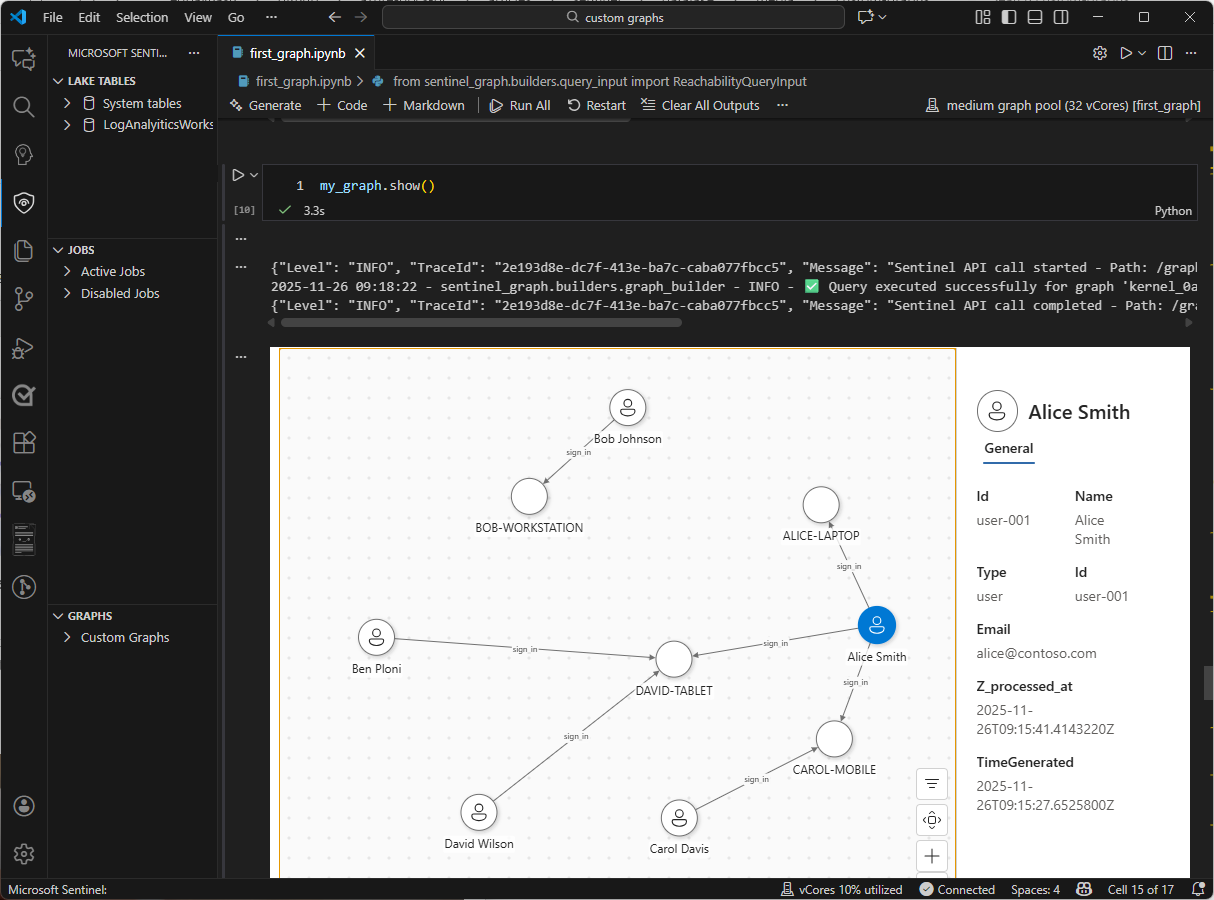
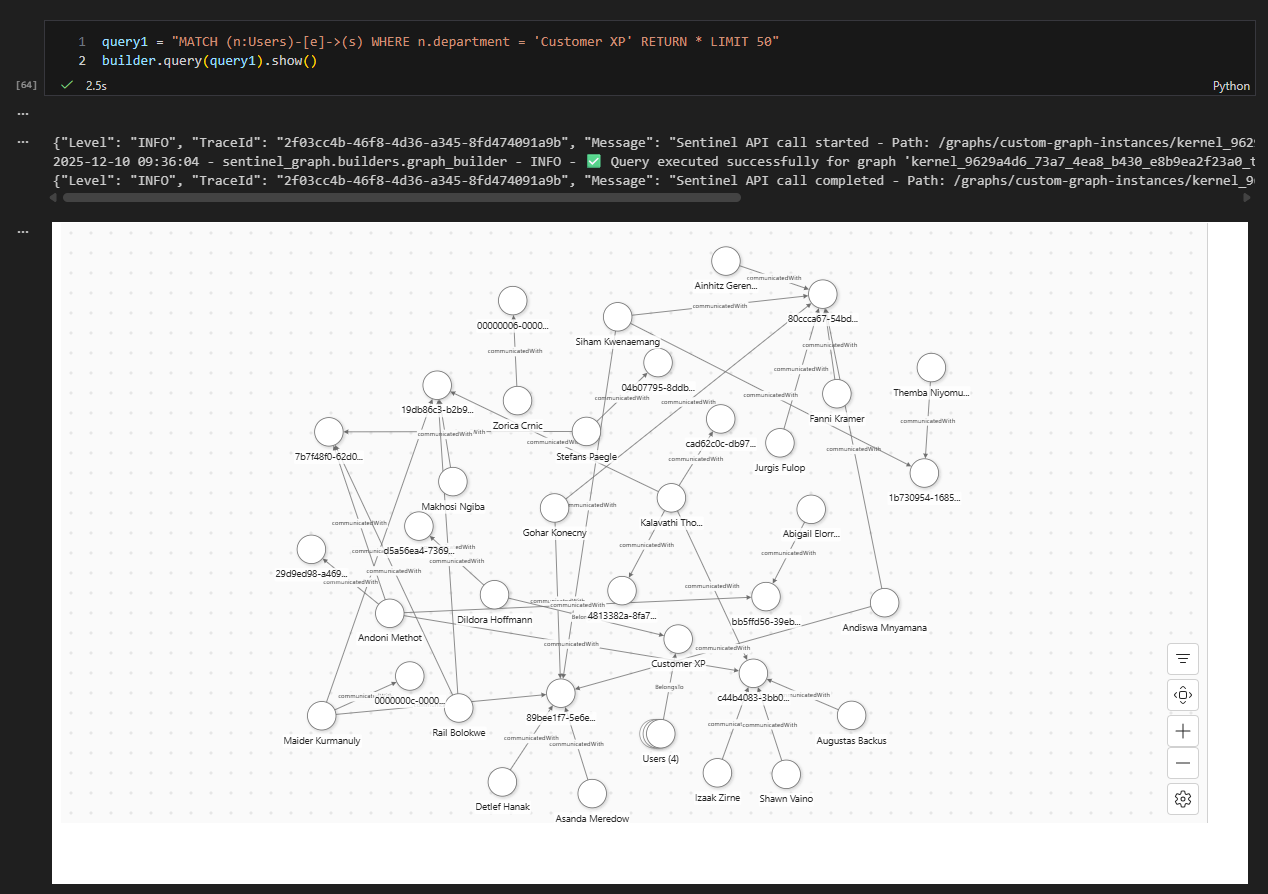
update samle code

diff --git a/articles/sentinel/datalake/custom-graphs.md b/articles/sentinel/datalake/custom-graphs.md
@@ -39,8 +39,6 @@ Create custom graphs by using Jupyter notebooks in the Microsoft Sentinel Visual
 
 ## Create a custom graph 
 
-**Important: All screenshots must be updated before our final release.**
-
 To create and work with custom graphs, complete the following steps:
 
 1. Create an ephemeral graph
@@ -71,79 +69,175 @@ The following steps walk you through creating your first custom graph by using a
 
 1. In an empty cell in the new notebook, paste the following sample code to get started with custom graphs:
 
+
     ```python
-    # create the graph using the graph spec builder
-    # type: ignore
-    # pyright: off
-    # pylance: off
+    import pkg_resources
+    from packaging import version
+    import logging
+
+    version = pkg_resources.get_distribution('MicrosoftSentinelGraphProvider').version
+    print(f"✅ MicrosoftSentinelGraphProvider: {version}" + f" using pool name : {spark.conf.get('spark.synapse.pool.   name')}")
+
+    print(f"Running in: Region  : {spark.conf.get('spark.cluster.region')}" + f" | Account id : {spark.conf.get ('spark.pjs.account.id')}")
 
 
-    # Data lake tables we will use as input for the graph in this example
-    identity_info_tbl = "cgi_identity_info_SPRK"
-    device_info_tbl = "cgi_device_info_SPRK"
-    signin_logs_tbl = "cgi_signin_logs_SPRK"
-
-    my_graph = (GraphSpecBuilder.start()
-
-            # Add user node from IdentityInfo table (using direct column names)
-            .add_node("user") 
-                .from_table(identity_info_tbl)
-                .with_time_range(time_column="TimeGenerated", start_time="2025-10-22", end_time="2025-10-24")
-                .with_columns("id", "name", "email", key="id", display="name")
-
-            # Add device node from DeviceInfo table
-            .add_node("device") 
-                .from_table(device_info_tbl)
-                .with_time_range(time_column="TimeGenerated", start_time="2025-10-22", end_time="2025-10-24")
-                .with_columns("id", "name", "type", key="id", display="name")
-
-            # Add edge between users and devices from SigninLogs table
-            .add_edge("sign_in") 
-                .from_table(signin_logs_tbl)
-                .with_time_range(time_column="TimeGenerated", start_time="2025-10-22", end_time="2025-10-24")
-                .source(id_column="UserId", node_type="user")
-                .target(id_column="DeviceId", node_type="device")
-                .with_columns("id", "location", key="id", display="id")
-
-            ).done()
-
-    print(f"✅ Graph specification created successfully")
+    # Set the logging level for the entire package
+    logging.getLogger('sentinel_graph').setLevel(logging.DEBUG)  # or ERROR, WARNING, INFO, DEBUG. Default is INFO
+    print(f"Logging level set to: {logging.getLevelName(logging.getLogger('sentinel_graph').level)} and above")
     ```
 
-    This cell creates a simple graph specification with user and device nodes, and sign-in edges between them by using sample tables in Sentinel data lake. You can modify the code to create graphs based on your own data, dates, and requirements.
+    This cell imports the Microsoft Sentinel graph provider library, checks the version, and sets the logging level to DEBUG for detailed output.
+    
+1. Run the cell to by selecting the run cell triangle icon to the left of the cell. The first time you run a cell, you might be prompted to select a kernel if you didn't already select one. Select **Microsoft Sentinel**, then select the **Medium graph pool**.
 
-1. Run the cell to create the graph specification by selecting the run cell triangle icon to the left of the cell. The first time you run a cell, you might be prompted to select a kernel if you didn't already select one. Select **Microsoft Sentinel**, then select the **Medium graph pool**.
-
-   The first time you run a cell, it might take up to five minutes to start the Spark session.
+     The first time you run a cell, it might take up to five minutes to start the Spark session.
 
    :::image type="content" source="media/custom-graphs/run-first-cell.png" lightbox="media/custom-graphs/run-first-cell.png" alt-text="A screenshot showing the running of the first cell in Visual Studio Code.":::
 
-   After the cell runs successfully, the message *✅ Graph specification created successfully* displays in the last output cell. You have now created a graph specification.
+1. Read the `SignInLogs` and `EntraUsers` tables from Sentinel data lake to create DataFrames to use in your graph specification. Replace `<LogAnalyiticsWorkspace>` with your Log Analytics workspace that contains your `SignInLogs` table.
+
+In a new cell, paste and run the following code:
+
+    ```python
+    from sentinel_lake.providers import MicrosoftSentinelProvider
+    from pyspark.sql.functions import col, count, lit, coalesce, window, expr, sum, first
+    #from pyspark.sql.types import StructType, StructField, StringType
+
+    sentinel_provider = MicrosoftSentinelProvider(spark)
+
+    ## Read SignIn logs and Entra User tables from Sentinel Lake
+    signIn_df = (sentinel_provider.read_table('SigninLogs',"<LogAnalyiticsWorkspace>")
+                  .filter((col("UserType").isin("Member")) & (col('TimeGenerated') >= expr("current_timestamp()     - INTERVAL 14 DAYS")) & (col("UserId").isNotNull()))\
+                    .select("Identity", "CorrelationId", "ResourceId", "AppId", "ResourceDisplayName",  "UserPrincipalName", "UserId", "IPAddress", "ResourceGroup", "UserDisplayName", "UserAgent",     "TimeGenerated")\
+                          ).persist()
+
+    users_df = (sentinel_provider.read_table('EntraUsers').filter(
+        (col("id").isNotNull()) &
+        (col("id") != '') &
+        (col('TimeGenerated') >= expr("current_timestamp() - INTERVAL 14 DAYS"))
+    ).select(
+        "country", "department", "displayName", "employeeId", "givenName", "id", "mail", "TimeGenerated"
+    ).dropDuplicates(["id"])\
+    .persist()
+    )
+
+    ## Show the first 5 rows of each DataFrame
+    signIn_df.show(5, truncate=False)
+    users_df.show(5, truncate=False)
+    ```
+
+1. Create dataframes for the graph's nodes & edges. In a new cell, paste and run the following code:
+
+    ```python
+    
+    EntraUsers_df = users_df.withColumn("nodeType", lit("User"))
+
+    Department_df = users_df.selectExpr("Department as Org").distinct().withColumn("nodeType", lit("Department"))
+
+    BelongsTo_df = users_df.withColumn("edgeType", lit("BelongsTo"))\
+                            .withColumn("UserId_BT", col("id"))
+
+    AppInfo_df = signIn_df.selectExpr("ResourceId", "AppId", "ResourceDisplayName as AppName")\
+                        .withColumn("nodeType", lit("App"))\
+                        .dropDuplicates(["ResourceId", "AppId"])
+                            #.withColumn("dest", concat(col("UserId"), lit("_User")))
+
+    CommunicatedWith_df = signIn_df.groupBy(
+                                        col("UserId"), col("IPAddress"), col("AppId"), col("UserAgent"),
+                                        col("UserId").alias("UserId_dest"), 
+                                        lit("communicatedWith").alias("edgeType"),
+                                        #window(col("TimeGenerated"), "4 hours").alias("TimeGenerated")
+                                    ).agg(count("*").alias("count"), first("TimeGenerated").alias   ("FirstTimeSeen"))
+
+
+    #- Validate the DataFrames
+    EntraUsers_df.show(5, truncate=False)
+    AppInfo_df.show(5, truncate=False)
+    BelongsTo_df.show(5, truncate=False)
+    Department_df.show(5, truncate=False)
+    CommunicatedWith_df.show(5, truncate=False) 
+    ```
+
+1. Create a graph specification by using the DataFrames created in the previous step.  
+    This step creates 3 node types
+        + Users
+        + Applications 
+        + Department
+    and 2 edge types
+        + BelongsTo 
+        + communicatedWith
+
+    In a new cell, paste and run the following code:
+
+    ```python
+    from sentinel_graph.builders import GraphSpecBuilder
+
+    builder = (GraphSpecBuilder.start()
+
+        .add_node("Users") \
+            .from_dataframe(EntraUsers_df.df) \
+            .with_columns("country", "department", "displayName", "employeeId",     "givenName", "id", "mail", "TimeGenerated", "nodeType", key="id",   display="id")
+
+        .add_node("Applications") \
+            .from_dataframe(AppInfo_df.df) \
+            .with_columns("ResourceId", "AppId", "AppName", "nodeType", key     ="AppId", display="AppId")
+
+         .add_node("Department") \
+            .from_dataframe(Department_df.df) \
+            .with_columns("Org", "nodeType", key="Org", display="Org")
+
+        .add_edge("BelongsTo") \
+            .from_dataframe(BelongsTo_df.df) \
+            .source(id_column="UserId_BT", node_type="Users") \
+            .target(id_column="department", node_type="Department") \
+            .with_columns("edgeType","TimeGenerated", key ="edgeType",  display="edgeType")
+
+        .add_edge("communicatedWith") \
+            .from_dataframe(CommunicatedWith_df) \
+            .source(id_column="UserId", node_type="Users") \
+            .target(id_column="AppId", node_type="Applications") \
+            .with_columns("edgeType","count", "FirstTimeSeen",
+                          #Other fields can be added here if needed
+                          #"TimeGenerated", 
+                      key="edgeType", display="edgeType")
+    
+    ).done()
+    ```
 
 1. Build the graph by using the graph specification created in the previous step. In a new cell, paste and run the following code:
 
     ```python
-    # build your graph
-
+    # Create the graph object
     build_result = my_graph.build_graph_with_data()
 
     print(f"Status: {build_result.get('status')}")
     ```
-
     When successful, the last line of the output cell displays *Status: success*.
 
-    You have now created an ephemeral graph in the notebook.
+You have now created an ephemeral graph in the notebook.
 
 1. Show a visual representation of the graph. In a new cell, paste and run the following code:
-This shows a sample of up to 50 elements from the graph as a visual. 
 
-    ```python
-    my_graph.show(limit=50)
-    ```
+```python
+query1 = "MATCH (n:Users)-[e]->(s) WHERE n.department = 'Customer XP' RETURN * LIMIT 50"
+builder.query(query1).show()
+```
 
-    The output cell displays a visual representation of the graph.
+This code runs a sample GQL query to retrieve all user nodes and their relationships for users in the "Customer XP" department, limiting the results to 50 entries. The resulting graph is visualized in the output.
 
-    :::image type="content" source="media/custom-graphs/graph-visualization.png" lightbox="media/custom-graphs/graph-visualization.png" alt-text="A     screenshot showing the visualization of a graph in Visual Studio Code.":::
+:::image type="content" source="media/custom-graphs/graph-visualization.png" lightbox="media/custom-graphs/graph-visualization.png" alt-text="A screenshot showing the visualization of a graph in Visual Studio Code.":::
+
+The following code runs another sample GQL query to retrieve all nodes that communicated with applications and belong to the "Customer XP" department, limiting the results to 50 entries. The resulting graph is visualized in the output.
+
+```python
+query2 = """MATCH (n)-[e:communicatedWith]->(a), (n)-[b:BelongsTo]->(d)
+        WHERE d.Org IN ["Customer XP"]
+        RETURN *
+        LIMIT 50"""
+builder.query(query2).show()
+```
+
+:::image type="content" source="media/custom-graphs/graph-visualization2.png" lightbox="media/custom-graphs/graph-visualization2.png" alt-text="A screenshot showing the visualization of a graph in Visual Studio Code.":::
 
 ## Perform graph analytics
 
